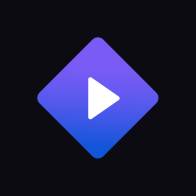
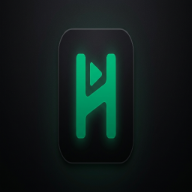
okkk

Changed region(s): [[0.1875, 0.0, 0.8125, 0.8125]]

diff --git a/src/App/styles.less b/src/App/styles.less
@@ -58,17 +58,17 @@
     --color-placeholder: #60606080;
     --color-placeholder-text: @color-surface-50;
     --color-placeholder-background: @color-surface-dark5-20;
-    --primary-background-color: rgba(12, 11, 17, 1);
-    --secondary-background-color: rgba(26, 23, 62, 1);
+    --primary-background-color: rgba(5, 5, 5, 1);
+    --secondary-background-color: rgba(8, 18, 12, 1);
     --primary-foreground-color: rgba(255, 255, 255, 0.9);
-    --secondary-foreground-color: rgb(12, 11, 17, 1);
-    --primary-accent-color: rgb(123, 91, 245);
-    --secondary-accent-color: rgba(34, 179, 101, 1);
+    --secondary-foreground-color: rgb(5, 5, 5, 1);
+    --primary-accent-color: rgb(0, 146, 93);
+    --secondary-accent-color: rgba(0, 169, 108, 1);
     --tertiary-accent-color: rgba(246, 199, 0, 1);
-    --quaternary-accent-color: rgba(18, 69, 166, 1);
+    --quaternary-accent-color: rgba(0, 100, 65, 1);
     --overlay-color: rgba(255, 255, 255, 0.05);
-    --modal-background-color: rgba(15, 13, 32, 1);
-    --outer-glow: 0px 0px 15px rgba(123, 91, 245, 0.37);
+    --modal-background-color: rgba(10, 12, 10, 1);
+    --outer-glow: 0px 0px 15px rgba(0, 146, 93, 0.37);
     --warning-accent-color: rgba(255, 165, 0, 1);
     --danger-accent-color: rgba(220, 38, 38, 1);  
     --border-radius: 0.75rem;

diff --git a/src/index.html b/src/index.html
@@ -6,10 +6,10 @@
     <meta name="viewport" content="width=device-width, initial-scale=1, maximum-scale=1, minimum-scale=1, user-scalable=0, user-scalable=no, viewport-fit=cover">
     <meta name="apple-mobile-web-app-capable" content="yes">
     <meta name="apple-mobile-web-app-status-bar-style" content="black-translucent">
-    <meta name="apple-mobile-web-app-title" content="Stremio">
+    <meta name="apple-mobile-web-app-title" content="HANDYFLIX">
     <link rel="icon" type="image/x-icon" href="<%= htmlWebpackPlugin.options.faviconsPath %>/favicon.ico">
     <link rel="manifest" href="manifest.json" />
-    <title>Stremio - Freedom to Stream</title>
+    <title>HANDYFLIX - Freedom to Stream</title>
     <%= htmlWebpackPlugin.tags.headTags %>
 </head>
 
